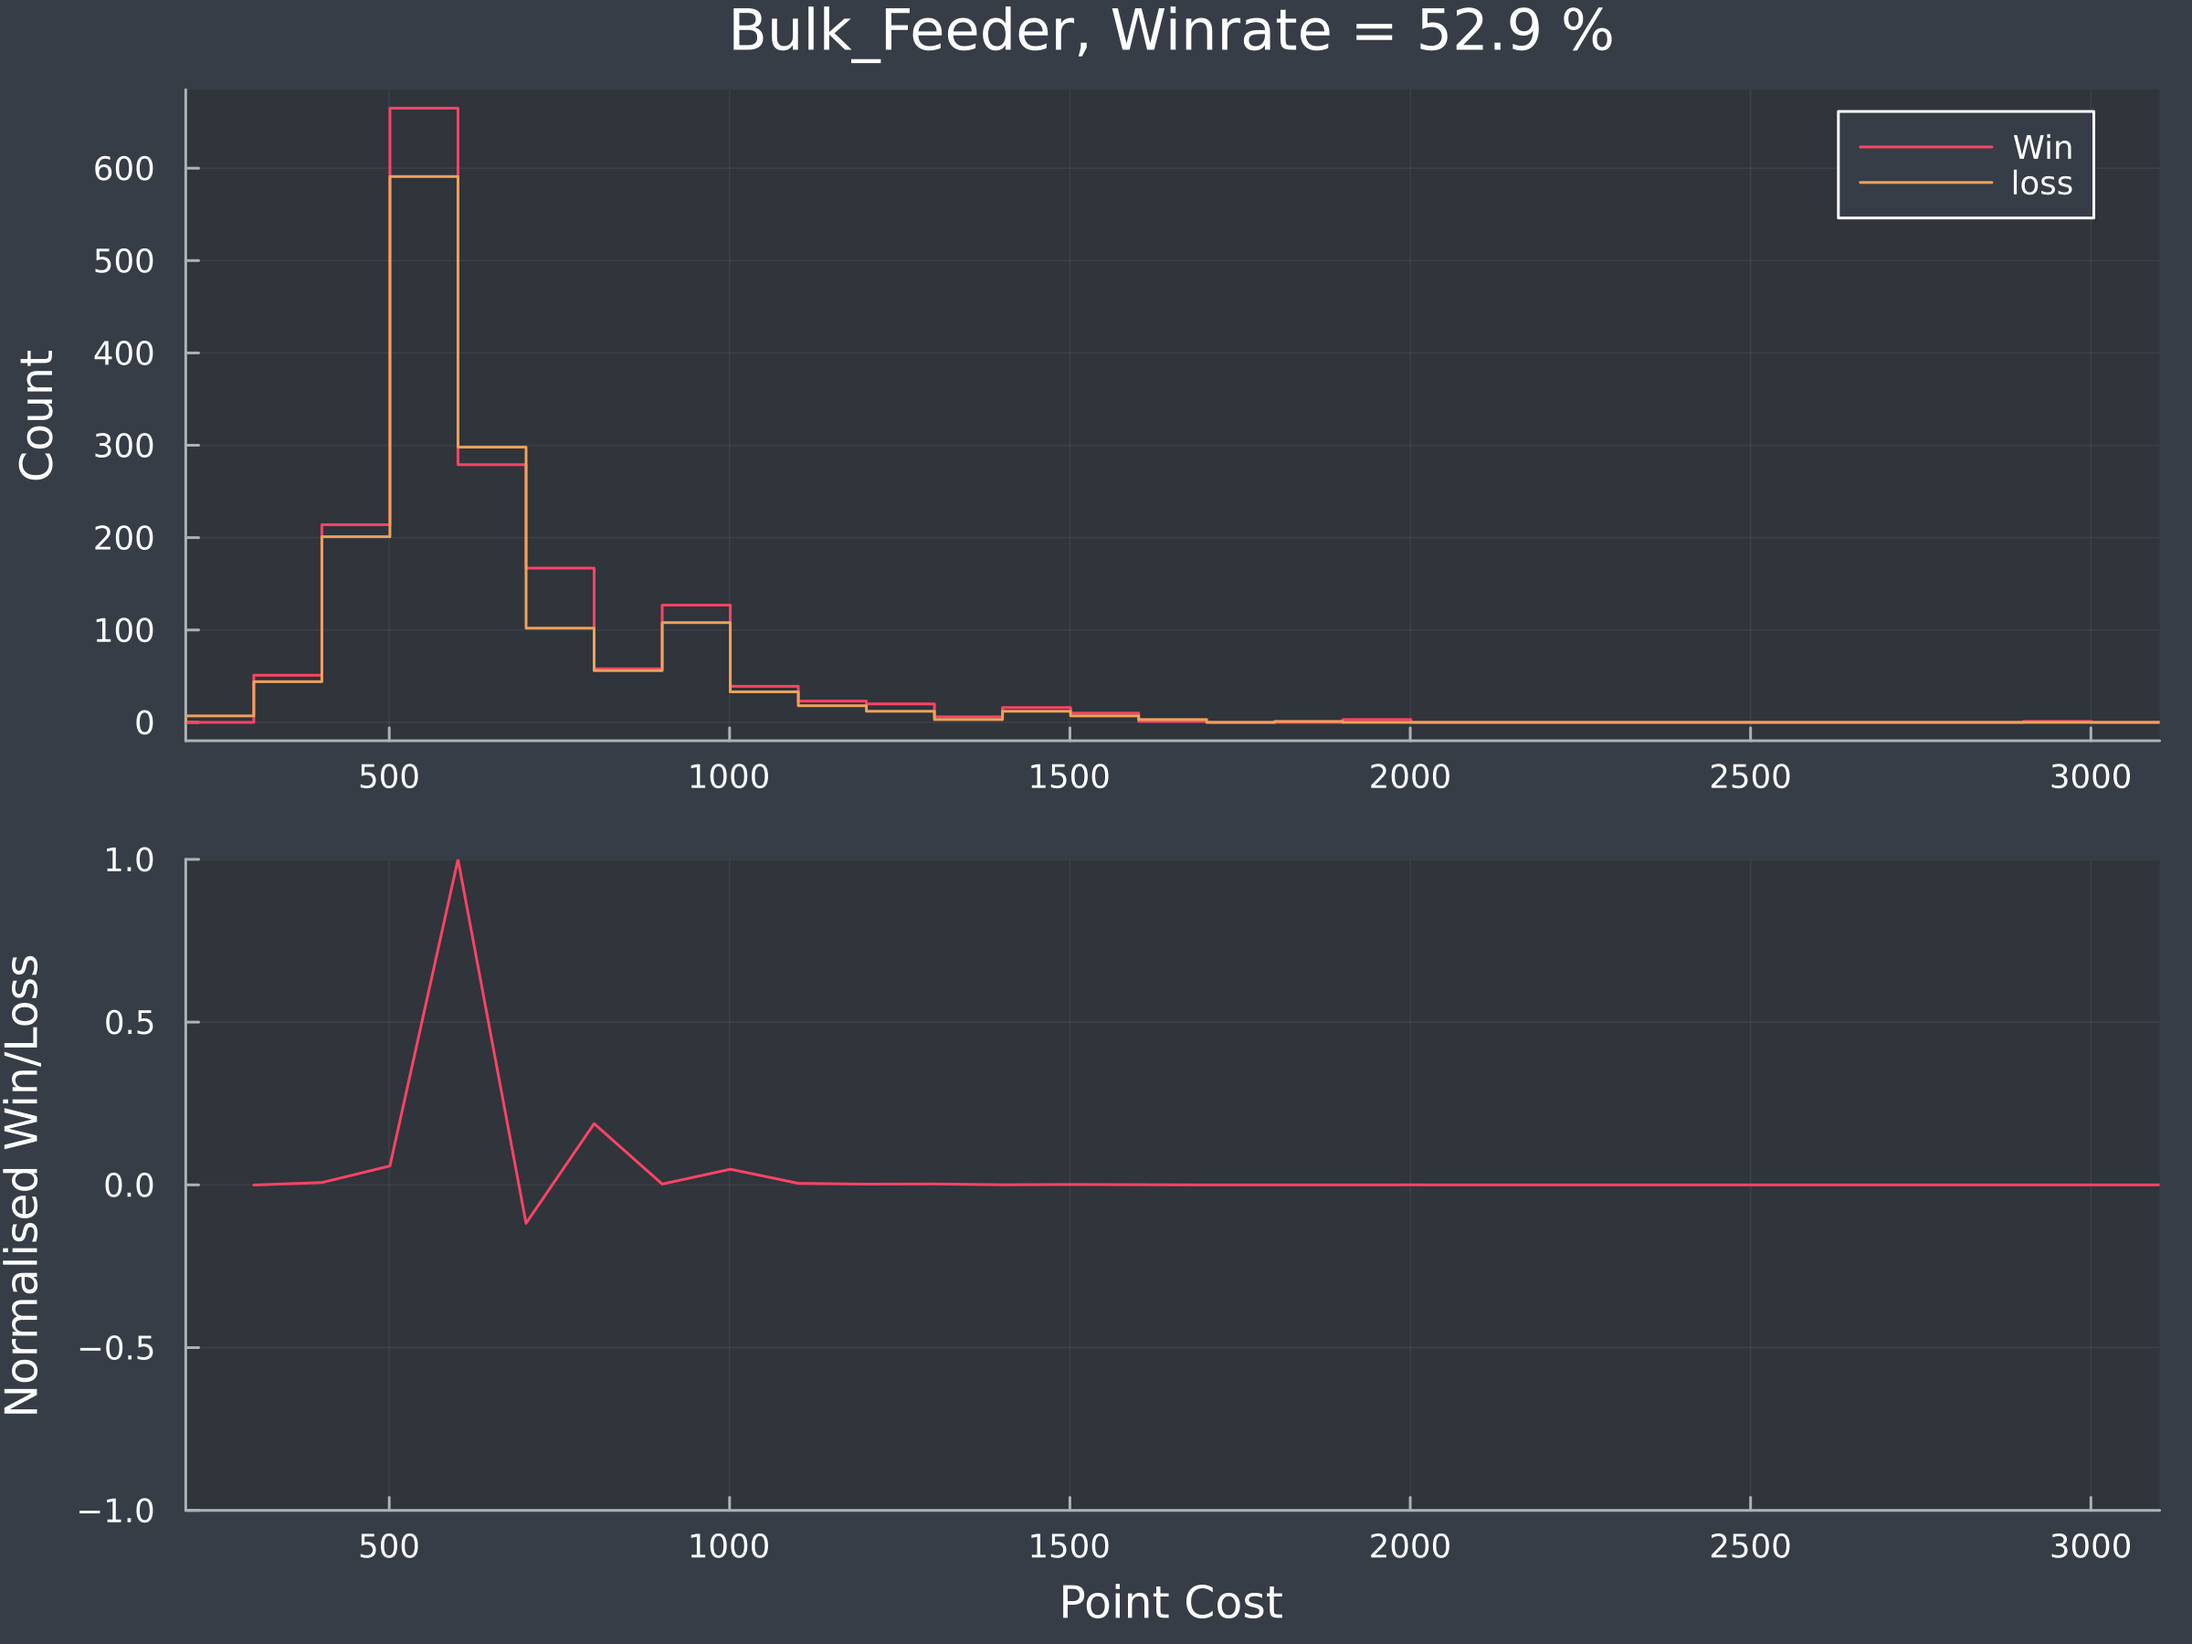
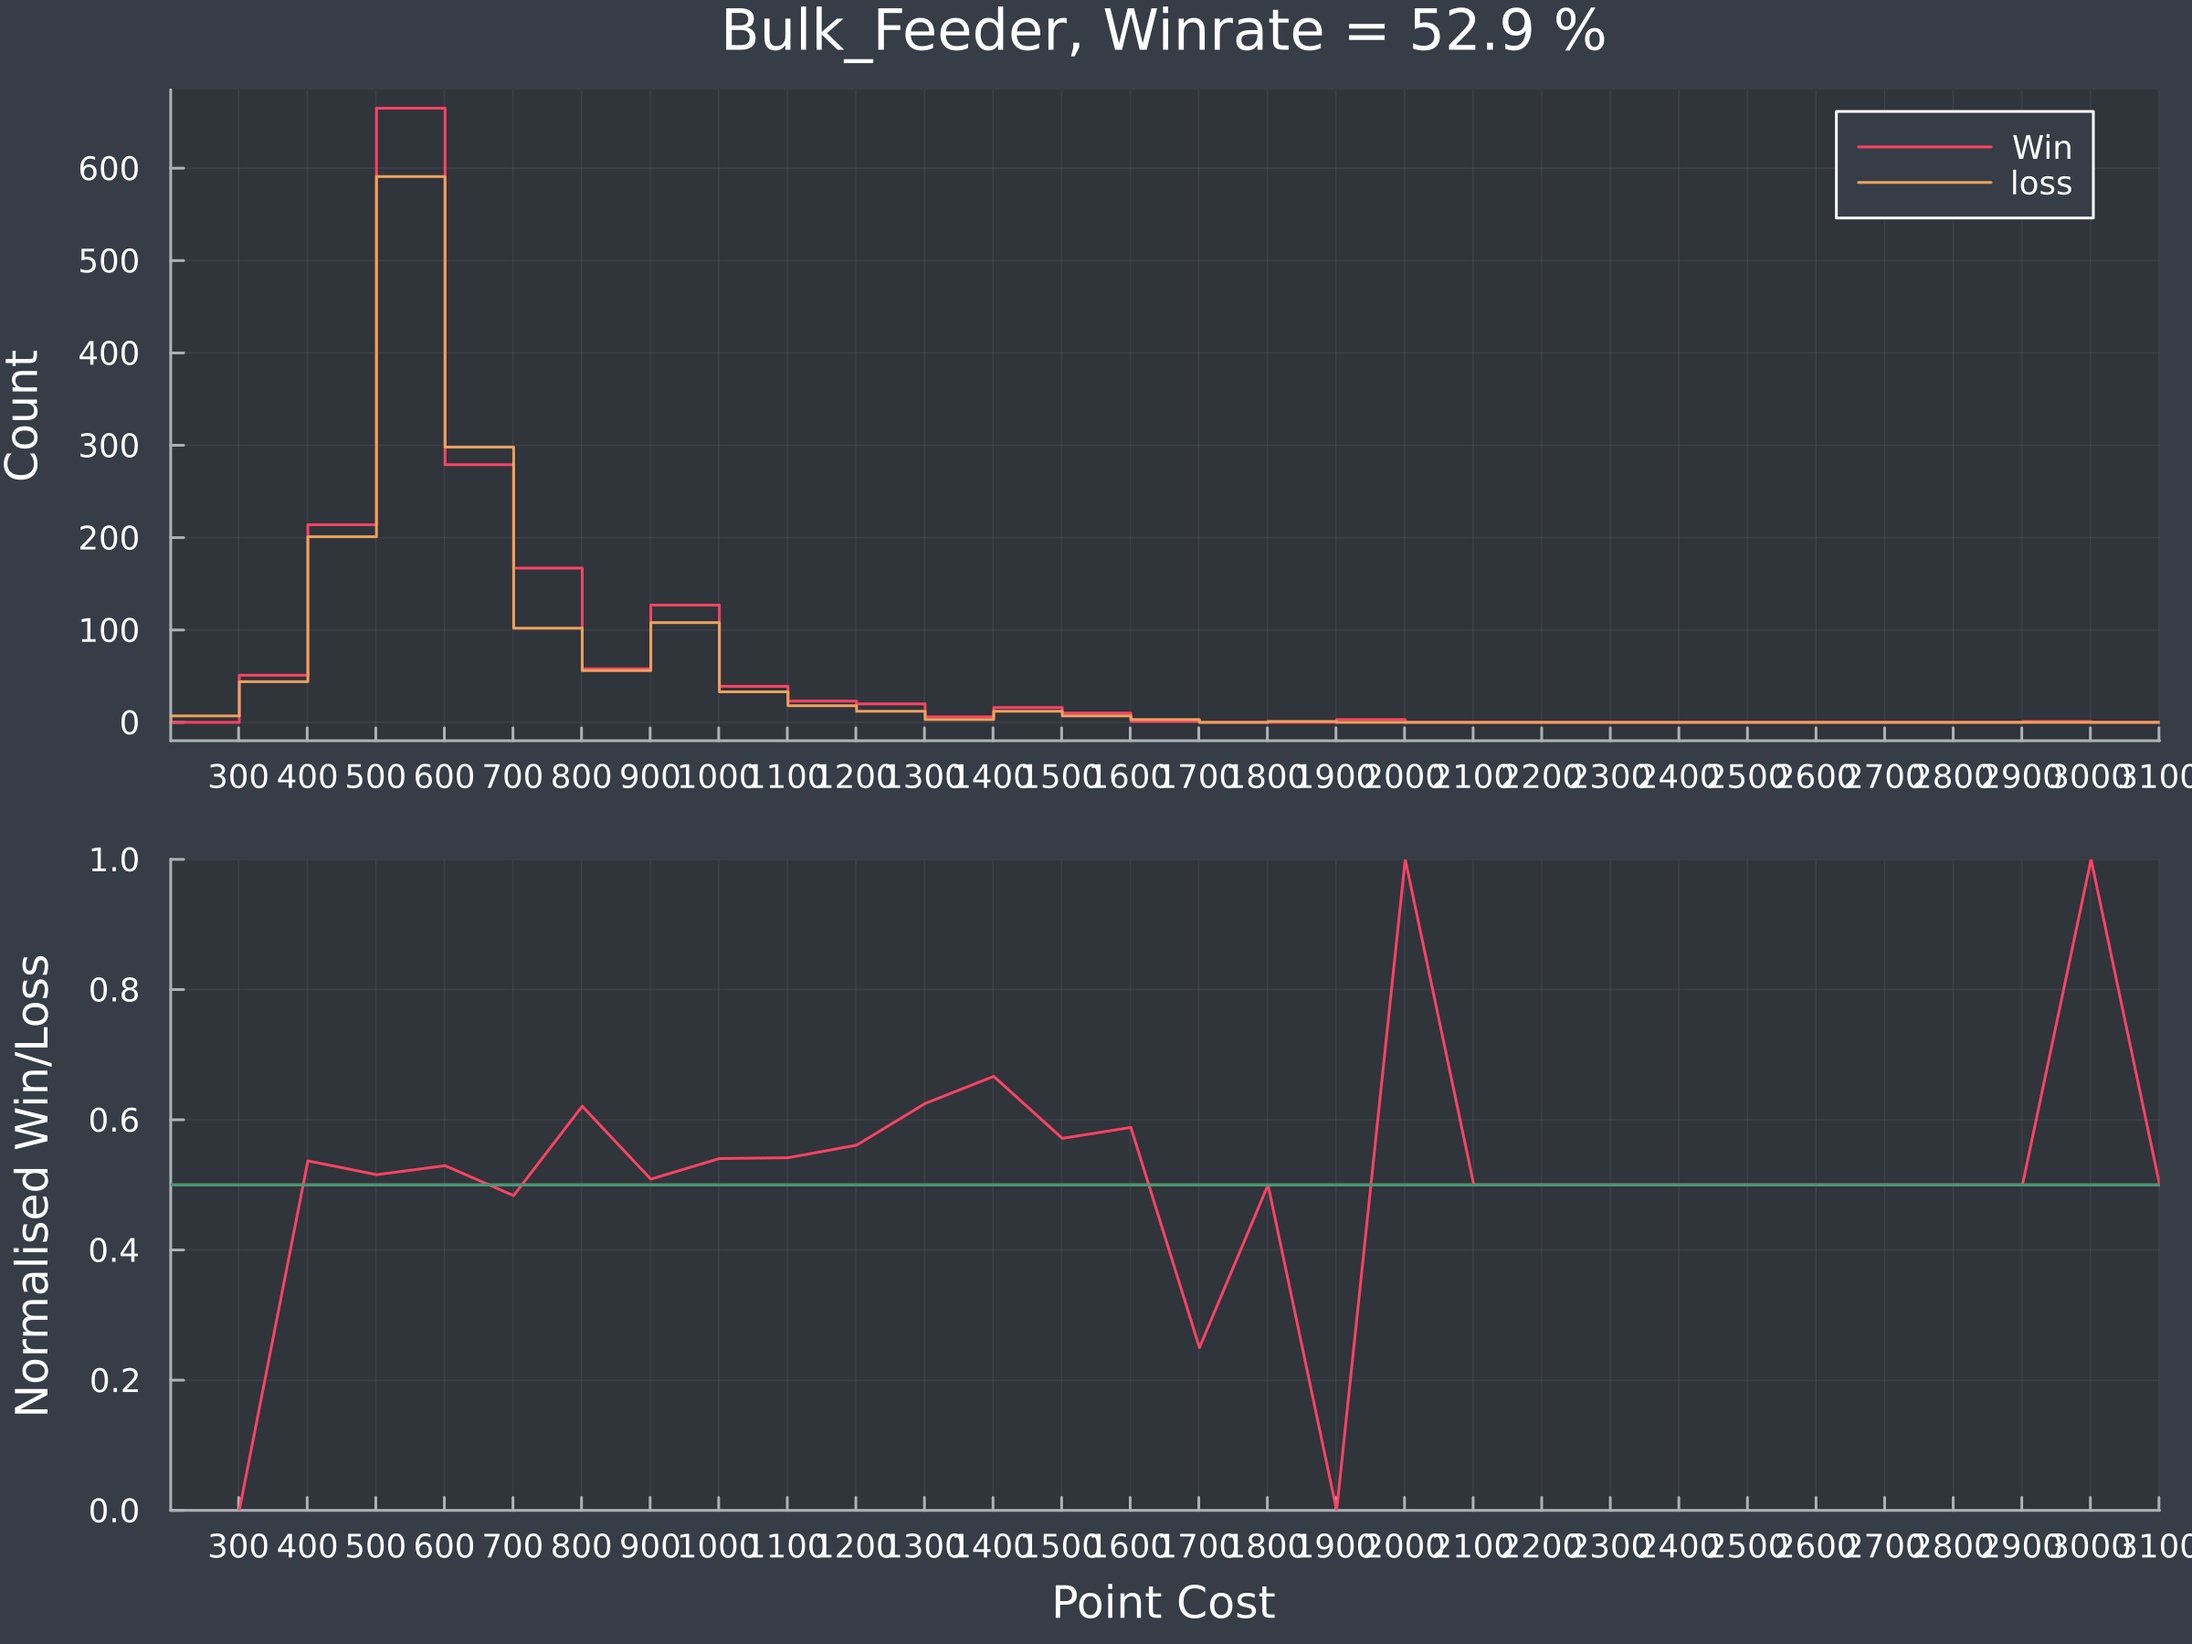
tidied up the hull stuff

diff --git a/docs/hullPointDistribution-ANS.md b/docs/hullPointDistribution-ANS.md
@@ -16,38 +16,9 @@ Anyway, without further ado, lets get to it!
 
 For each Hull, there are two charts. The top is a histogram of the win/loss by point value. I've done this for every hull I have stats on, so there are naturally higher values for smaller ships. 
 
-Then there is measure I have tried to derive from the top chart of point viability. This is a normalised (between -1 to 1) measure of how viable a hull is at for each band of cost. Positive values are mean the hull is more viable, while negative values mean the hull is less viable. These values are scaled by the win rate and the size of the sample to prevent outliers were there are 3 wins and no losses from dominating the chart. 
+Then there is the winrate at each 100 point range. Note that this will be skewed by smaller values.
 
-Becasue they are normalised to the hull, you shouldn't compare these across hulls. This is designed to be a measure of how viable each hull is in the unknown soup of whatever else is brought to the battlefield. 
-
-Finally, in the header, there is a winrate. This is the number of wins / number of games this hull has been in. 
-
-### Point viability formula
-The formula I've used to calculate point viability is described below
-
-```Julia
-#For each point band of 100 points
-
-# Get the Win/Loss weights from the histogram
-# These are the values we see in the top chart
-
-winH = fit(Histogram, w.pointCost, start:step:finish).weights
-lossH = fit(Histogram, l.pointCost, start:step:finish).weights
-
-# Get the difference between wins and losses
-# Multiply it by the sum of the sqrt of the W/L rates, and sqrt it again  
-# the second sqrt meant the count of ships in larger buckets dominated 
-
-rate = (winH .- lossH ) .* sqrt.(sqrt.(winH) .+ sqrt.(lossH) )
-
-# And normalise it to -1 and 1 by finding the max extreme value. 
-# We still want to keep the default at zero, so not a min/max normalization
-
-rateN = rate ./ max(maximum(rate),abs(minimum(rate)))
-
-```
-
-I hope this makes some sense! I've got no mathematical  justification for why I chose the transformation I did, except it seems to look reasonably useful. 
+Finally, in the header, there is the total winrate. This is the number of wins / number of games this hull has been in. 
 
 # ANS Hulls
 
